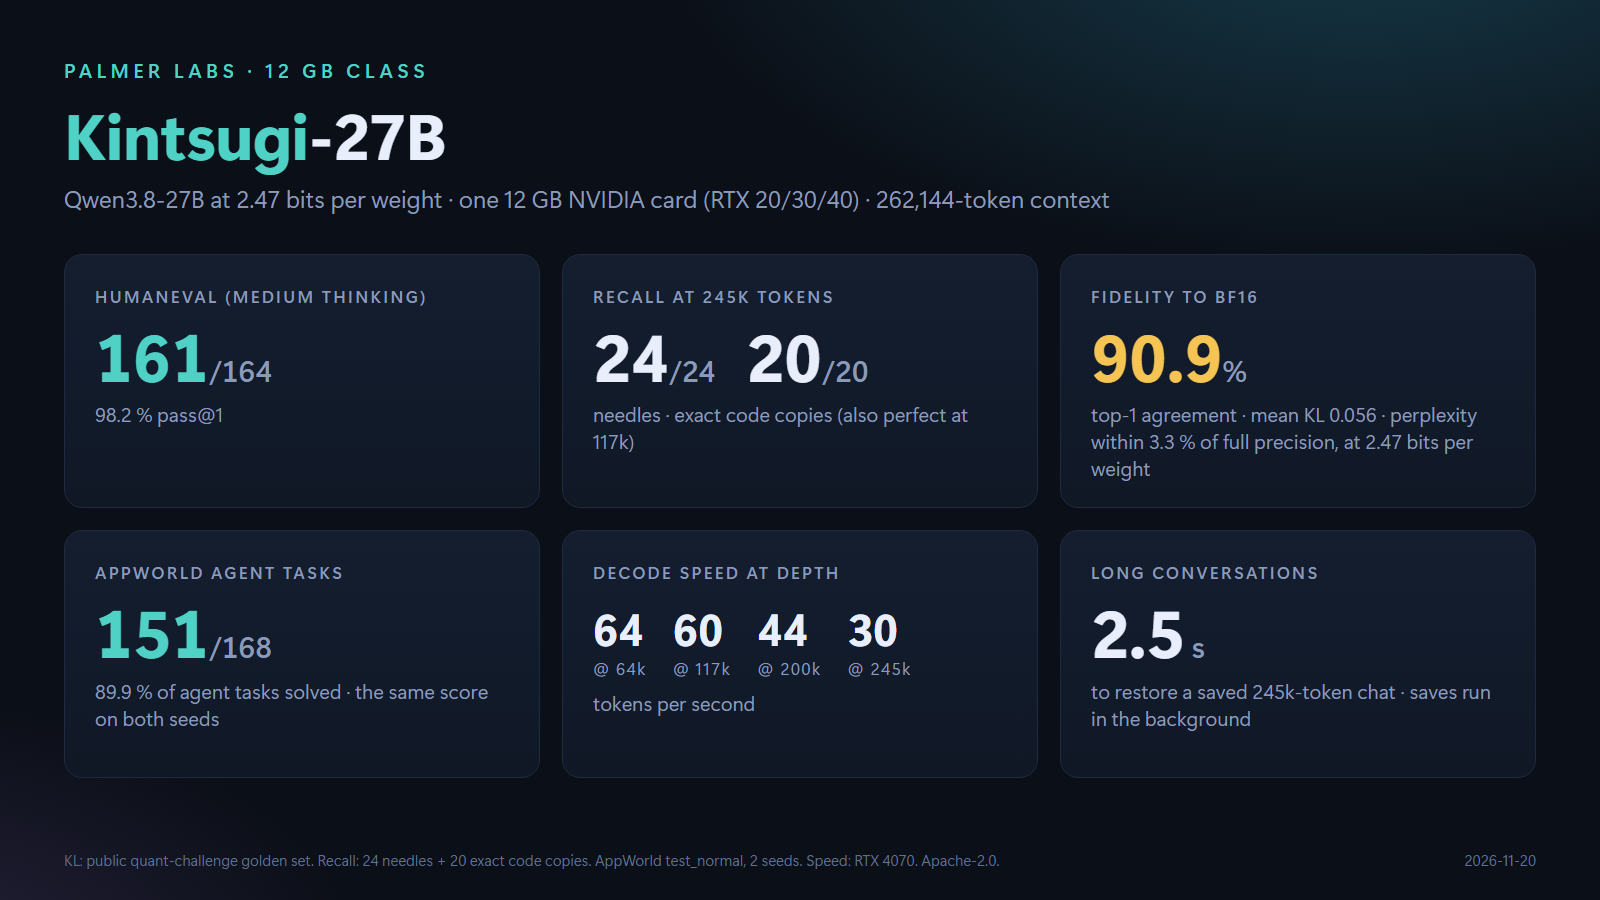
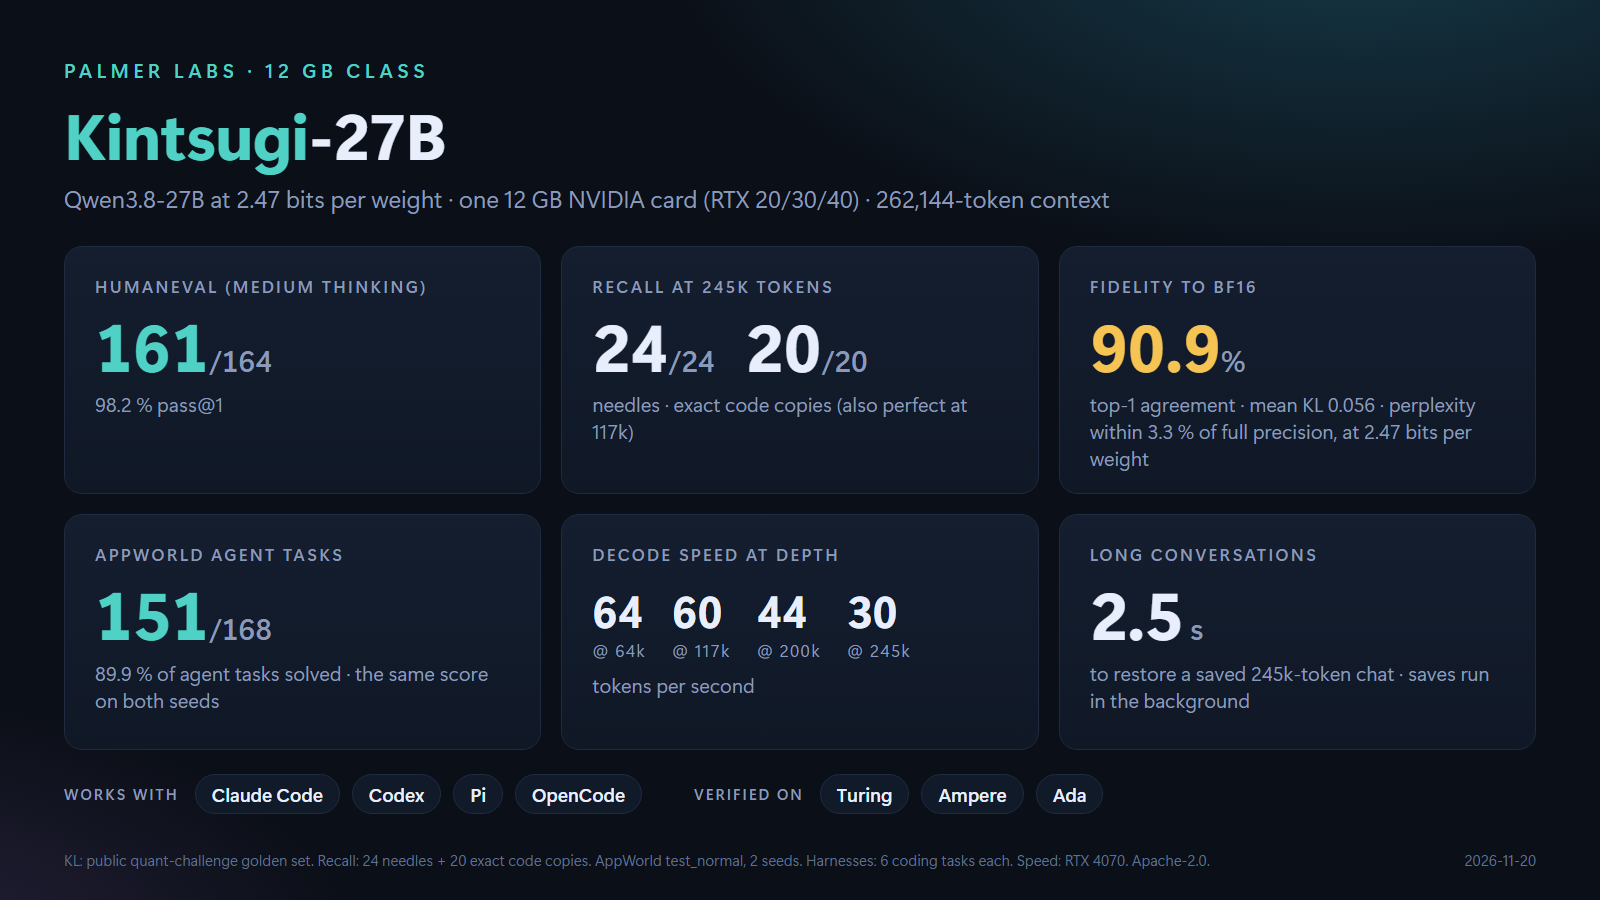
README: driver 580+, cards checked on Turing/Ampere/Ada; card: harnesses + verified architectures

diff --git a/README.md b/README.md
@@ -13,12 +13,12 @@ the end); pull requests are welcome.
 
 ## What you need
 
-- An NVIDIA RTX 20, 30 or 40 series card with 12 GB of VRAM or more: for example RTX 2060 12 GB (being verified),
-  3060 12 GB, 3080 12 GB, 3080 Ti, 3090, 4060 Ti 16 GB, 4070 and up, 4090. RTX 50 series (Blackwell) is NOT supported
+- An NVIDIA RTX 20, 30 or 40 series card with 12 GB of VRAM or more: for example RTX 2060 12 GB, 3060 12 GB, 3080 12 GB, 3080 Ti, 3090, 4060 Ti 16 GB, 4070 and up, 4090. RTX 50 series (Blackwell) is NOT supported
   in this build, by choice: the project targets the cards most people already own. Cards with less than 12 GB can not
   hold the model. On 16-24 GB cards the launcher keeps the whole context in VRAM, so long-context speed is much higher
-  there.
-- A recent NVIDIA driver (the bundle carries its own CUDA 13 runtime; the driver must support CUDA 13).
+  there. Checked on Turing (RTX 20 class, on a card limited to 12 GB), Ampere and Ada: the same results within 1 %.
+- NVIDIA driver 580 or newer (the bundle carries its own CUDA 13 runtime). The launcher stops with a message if the
+  driver is too old.
 - Windows 10 or 11, 64-bit. 32 GB of system RAM or more is best for very long chats.
 - About 11 GB of disk for the model, plus room for saved chats (up to 20 GB, in `slots\`).
 - Optional: Python 3.10 or newer, for saved chats (see below). No extra Python packages are needed.
